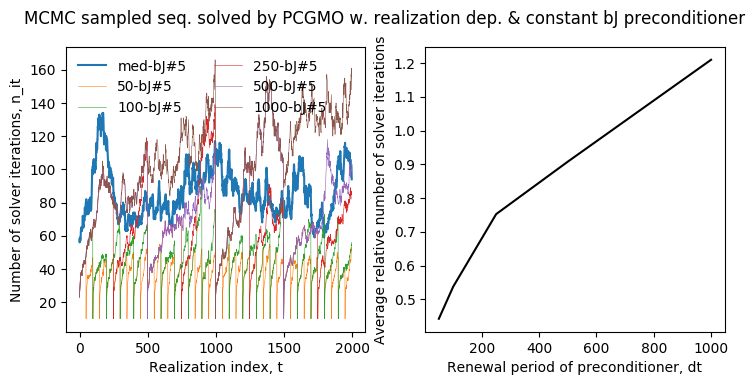
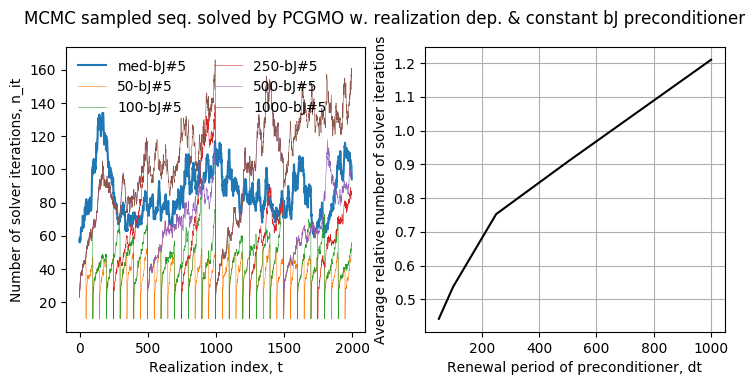
first-commit

diff --git a/README.tex.md b/README.tex.md
@@ -137,16 +137,20 @@ List of files: _samplers.py_, _solvers.py_, _recyclers.py_, _post_recyclers.py_
     - {`"mc"`, `"mcmc"`} - `"dcg"` - `"dcgmo"`.
     - {`"mc"`, `"mcmc"`} - `"dpcg"` - `"dpcgmo"`.
   - `dt` (`int`, `dt`>=`0`) : Renewal period of the preconditioner used for `"pcgmo"`.  If `dt`=`0`, there is no renewal, i.e. the preconditioner is constant throughout the sequence.
-  - `t_end_def` (`int`, `t_end_def`>=`0`) : Time.
-  - `kl` (`int`, `kl`>=`0`) : `kdim`+`ell`.
-  - `kl_strategy` (`int`, {`0`, `1`}) : Strategy.
+  - `t_end_def` (`int`, `t_end_def`>=`0`) : Number of realizations (resp. distinct realizations, for `sampler.type`=`"mcmc"`) beyond which the deflation subspace is not updated any more. For`t_end_def`=`0` , there is no interruption and a new deflation subspace is generated at each  (resp. distinct) realization.
+  - `kl` (`int`, `kl`>=`0`) : Upper bound on the sum of the dimensions `kdim`  and `ell` of the deflation and recycled Krylov subspaces, respectively.
+  - `kl_strategy` (`int`, {`0`, `1`}) : Specifies the strategy used to update the dimensions `kdim`  and `ell` of the deflation and recycled Krylov subspaces, respectively, at each (resp. distinct) realizations in the sampled sequence.
+    - `0` : `kdim`=`kl`/2, `ell`=`kl`-`kdim`.
+    - `1` : kdim increases while ell decreases.
   - `dp_seq` (`string`, {`"pd"`, `"dp"`}) : Deflating/preconditioning sequence for `"dpcgmo"` :
     - `"pd"` : Precondition after deflating.
     - `"dp"` : Deflate after preconditioning.
-  - `which_op` (`string`, {`"previous"`, `"current"`}) : Operator used.
-  - `approx` (`string`, {`"HR"`, `"RR"`}) : Approximation.
-    - `"HR"` : Harmonic Ritz analysis.
-    - `"RR"` : Rayleigh Ritz analysis.
+  - `which_op` (`string`, {`"previous"`, `"current"`}) : Operator used for the construction of the deflation subspace :
+    - `"previous"` : this.
+    - `"current"` : that.
+  - `approx` (`string`, {`"HR"`, `"RR"`}) : Projection methods used for eigenvector approximation used in to turn to generate the deflation subspace :
+    - `"HR"` : Harmonic Ritz analysis, best suited for least dominant LD eigenpairs.
+    - `"RR"` : Rayleigh Ritz analysis, best suited for the most dominant MD eigenpairs.
 
   Public parameters : *, *, *.
 
@@ -154,11 +158,15 @@ List of files: _samplers.py_, _solvers.py_, _recyclers.py_, _post_recyclers.py_
 
 - _post-recyclers.py_ :
 
-  A `post_recycler` is *.
+  A `post_recycler` post-recycles.
 
-  List of `post_recycler` available:
+  Signature : `recycler`(`recycler`)
 
-  - Plots results
+  - recycler (recycler)
+
+  Public parameters : *, *, *.
+
+  Public methods : *, *, *.
 
 
 ### Usage:
@@ -323,6 +331,7 @@ for i, dt_i in enumerate(dt):
 av_pcgmo_medbJ_it = np.mean(pcgmo_medbJ_it)
 av_pcgmo_dtbJ_it = np.array([np.mean(pcgmo_it)/av_pcgmo_medbJ_it for pcgmo_it in pcgmo_dtbJ_it])
 ax[1].plot(dt, av_pcgmo_dtbJ_it, "k")
+ax[1].grid()
 ax[0].set_xlabel("Realization index, t"); ax[1].set_xlabel("Renewal period of preconditioner, dt")
 ax[0].set_ylabel("Number of solver iterations, n_it")
 ax[1].set_ylabel("Average relative number of solver iterations")
